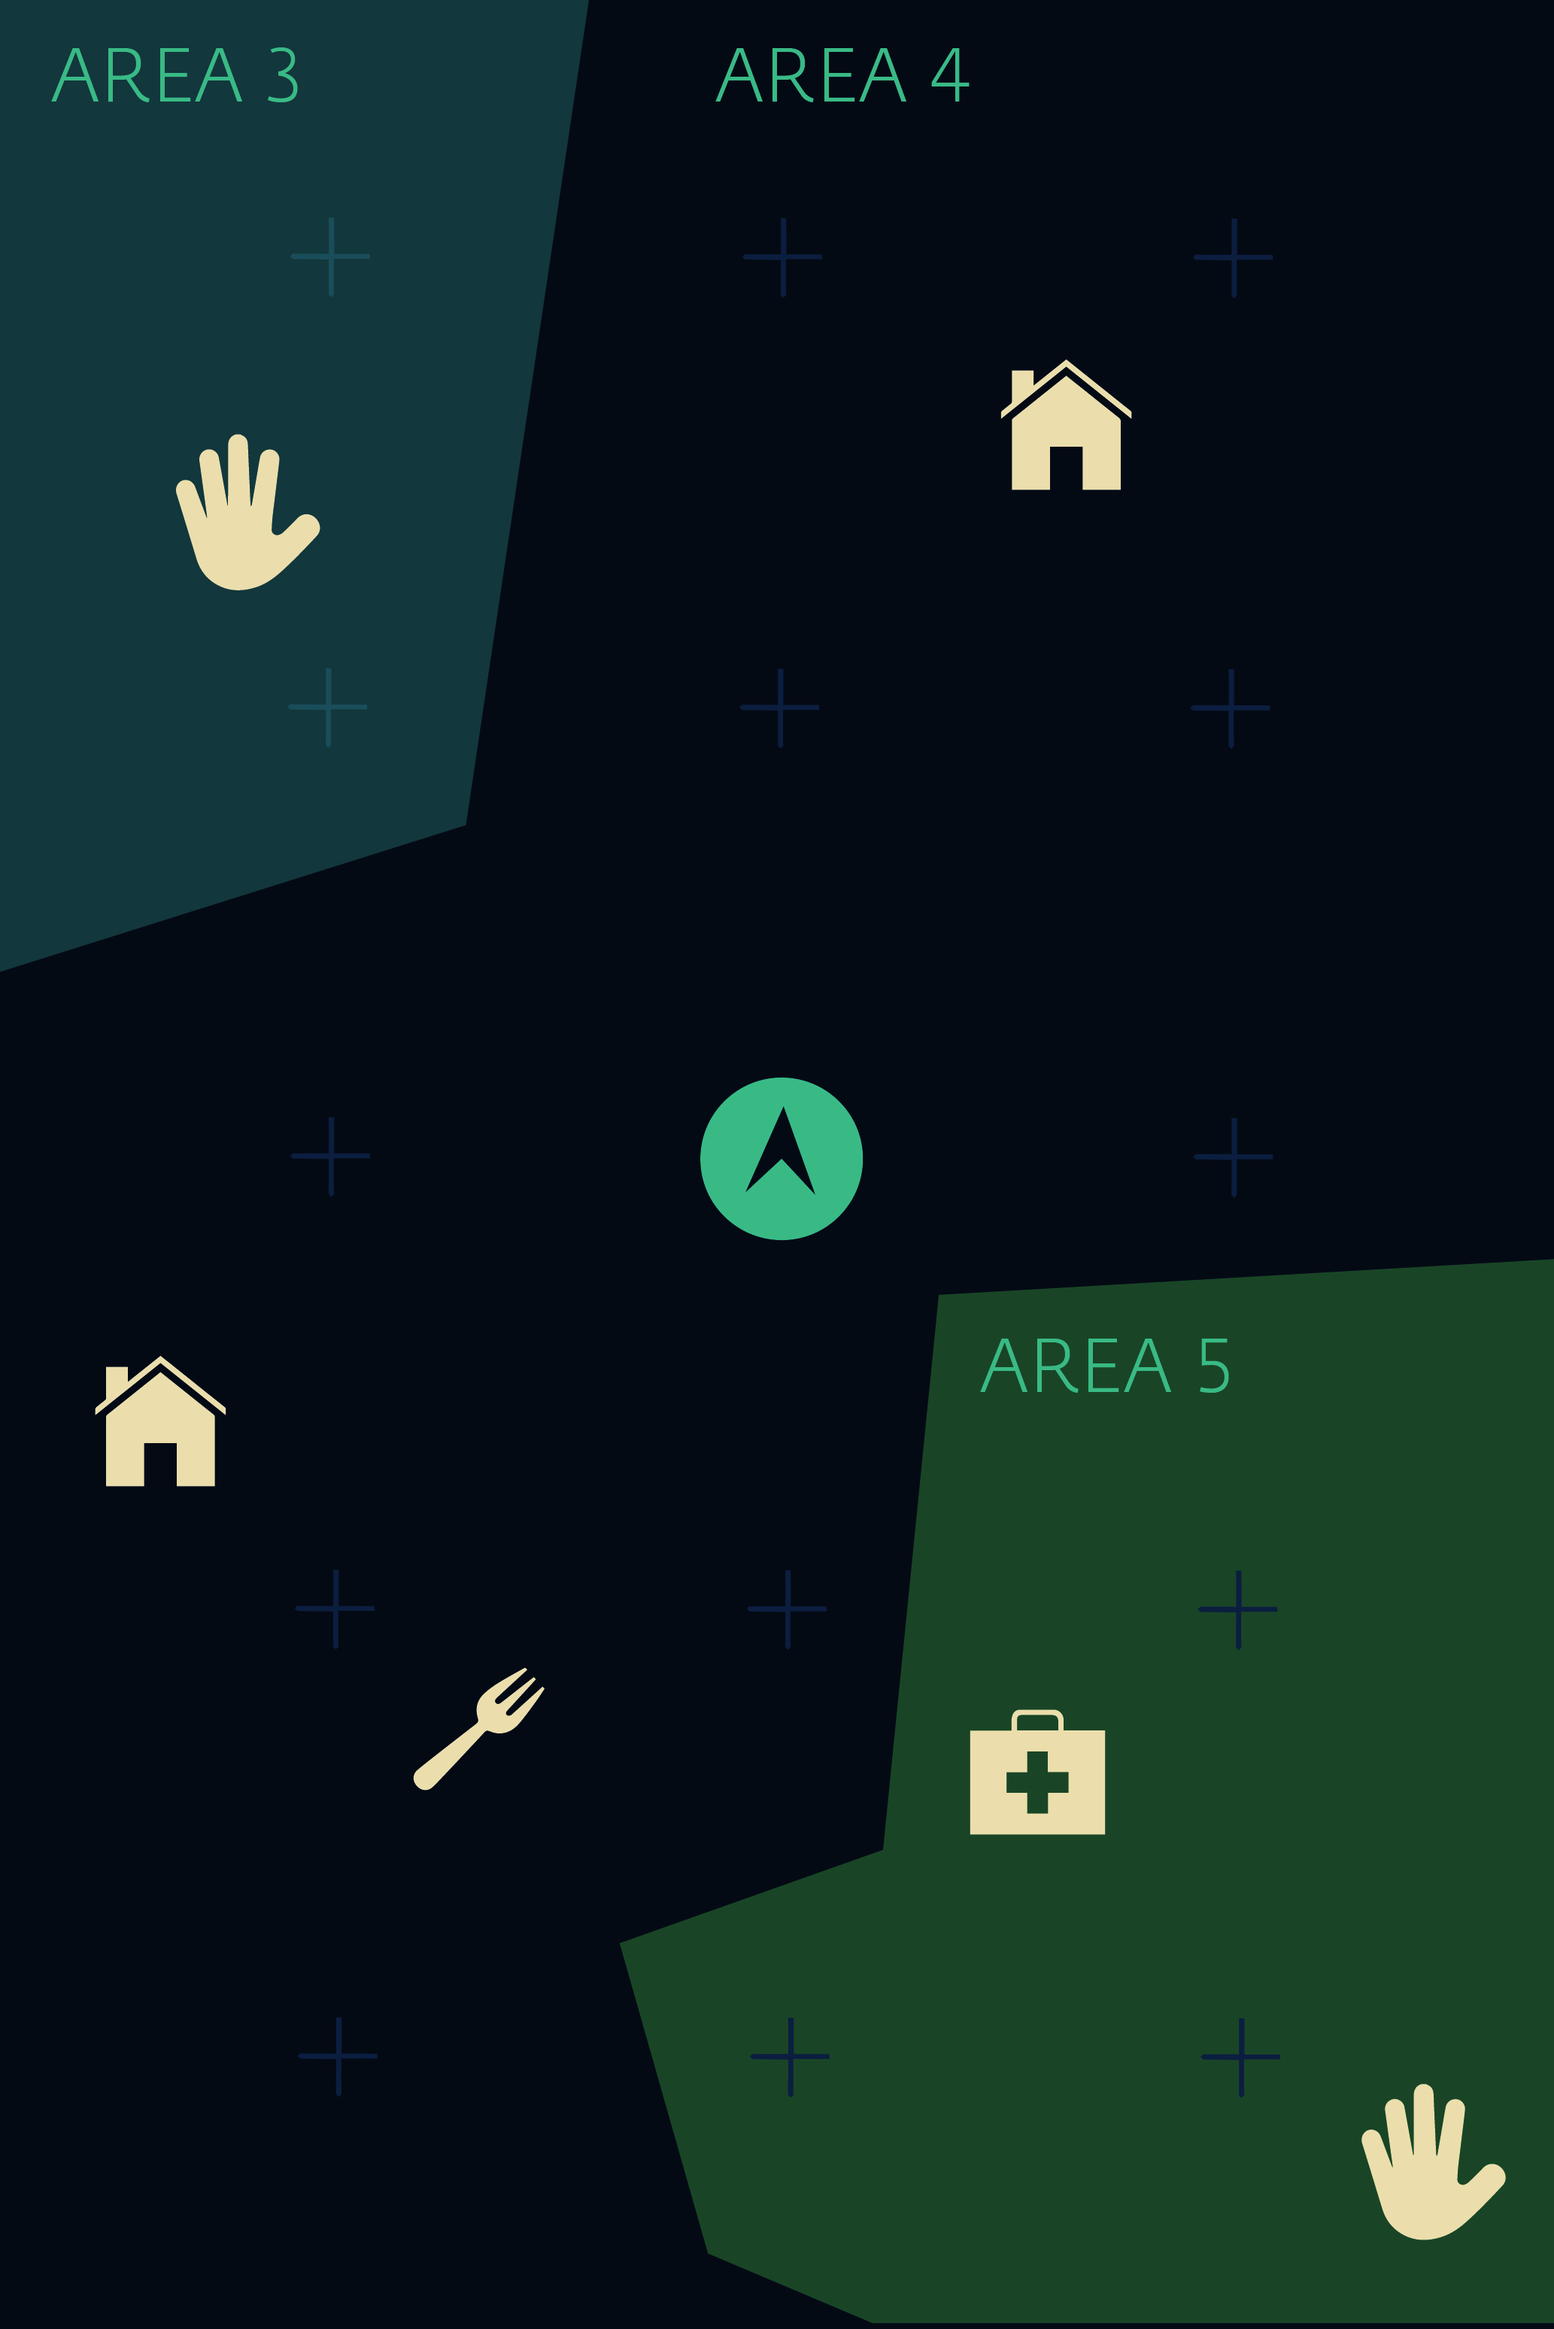
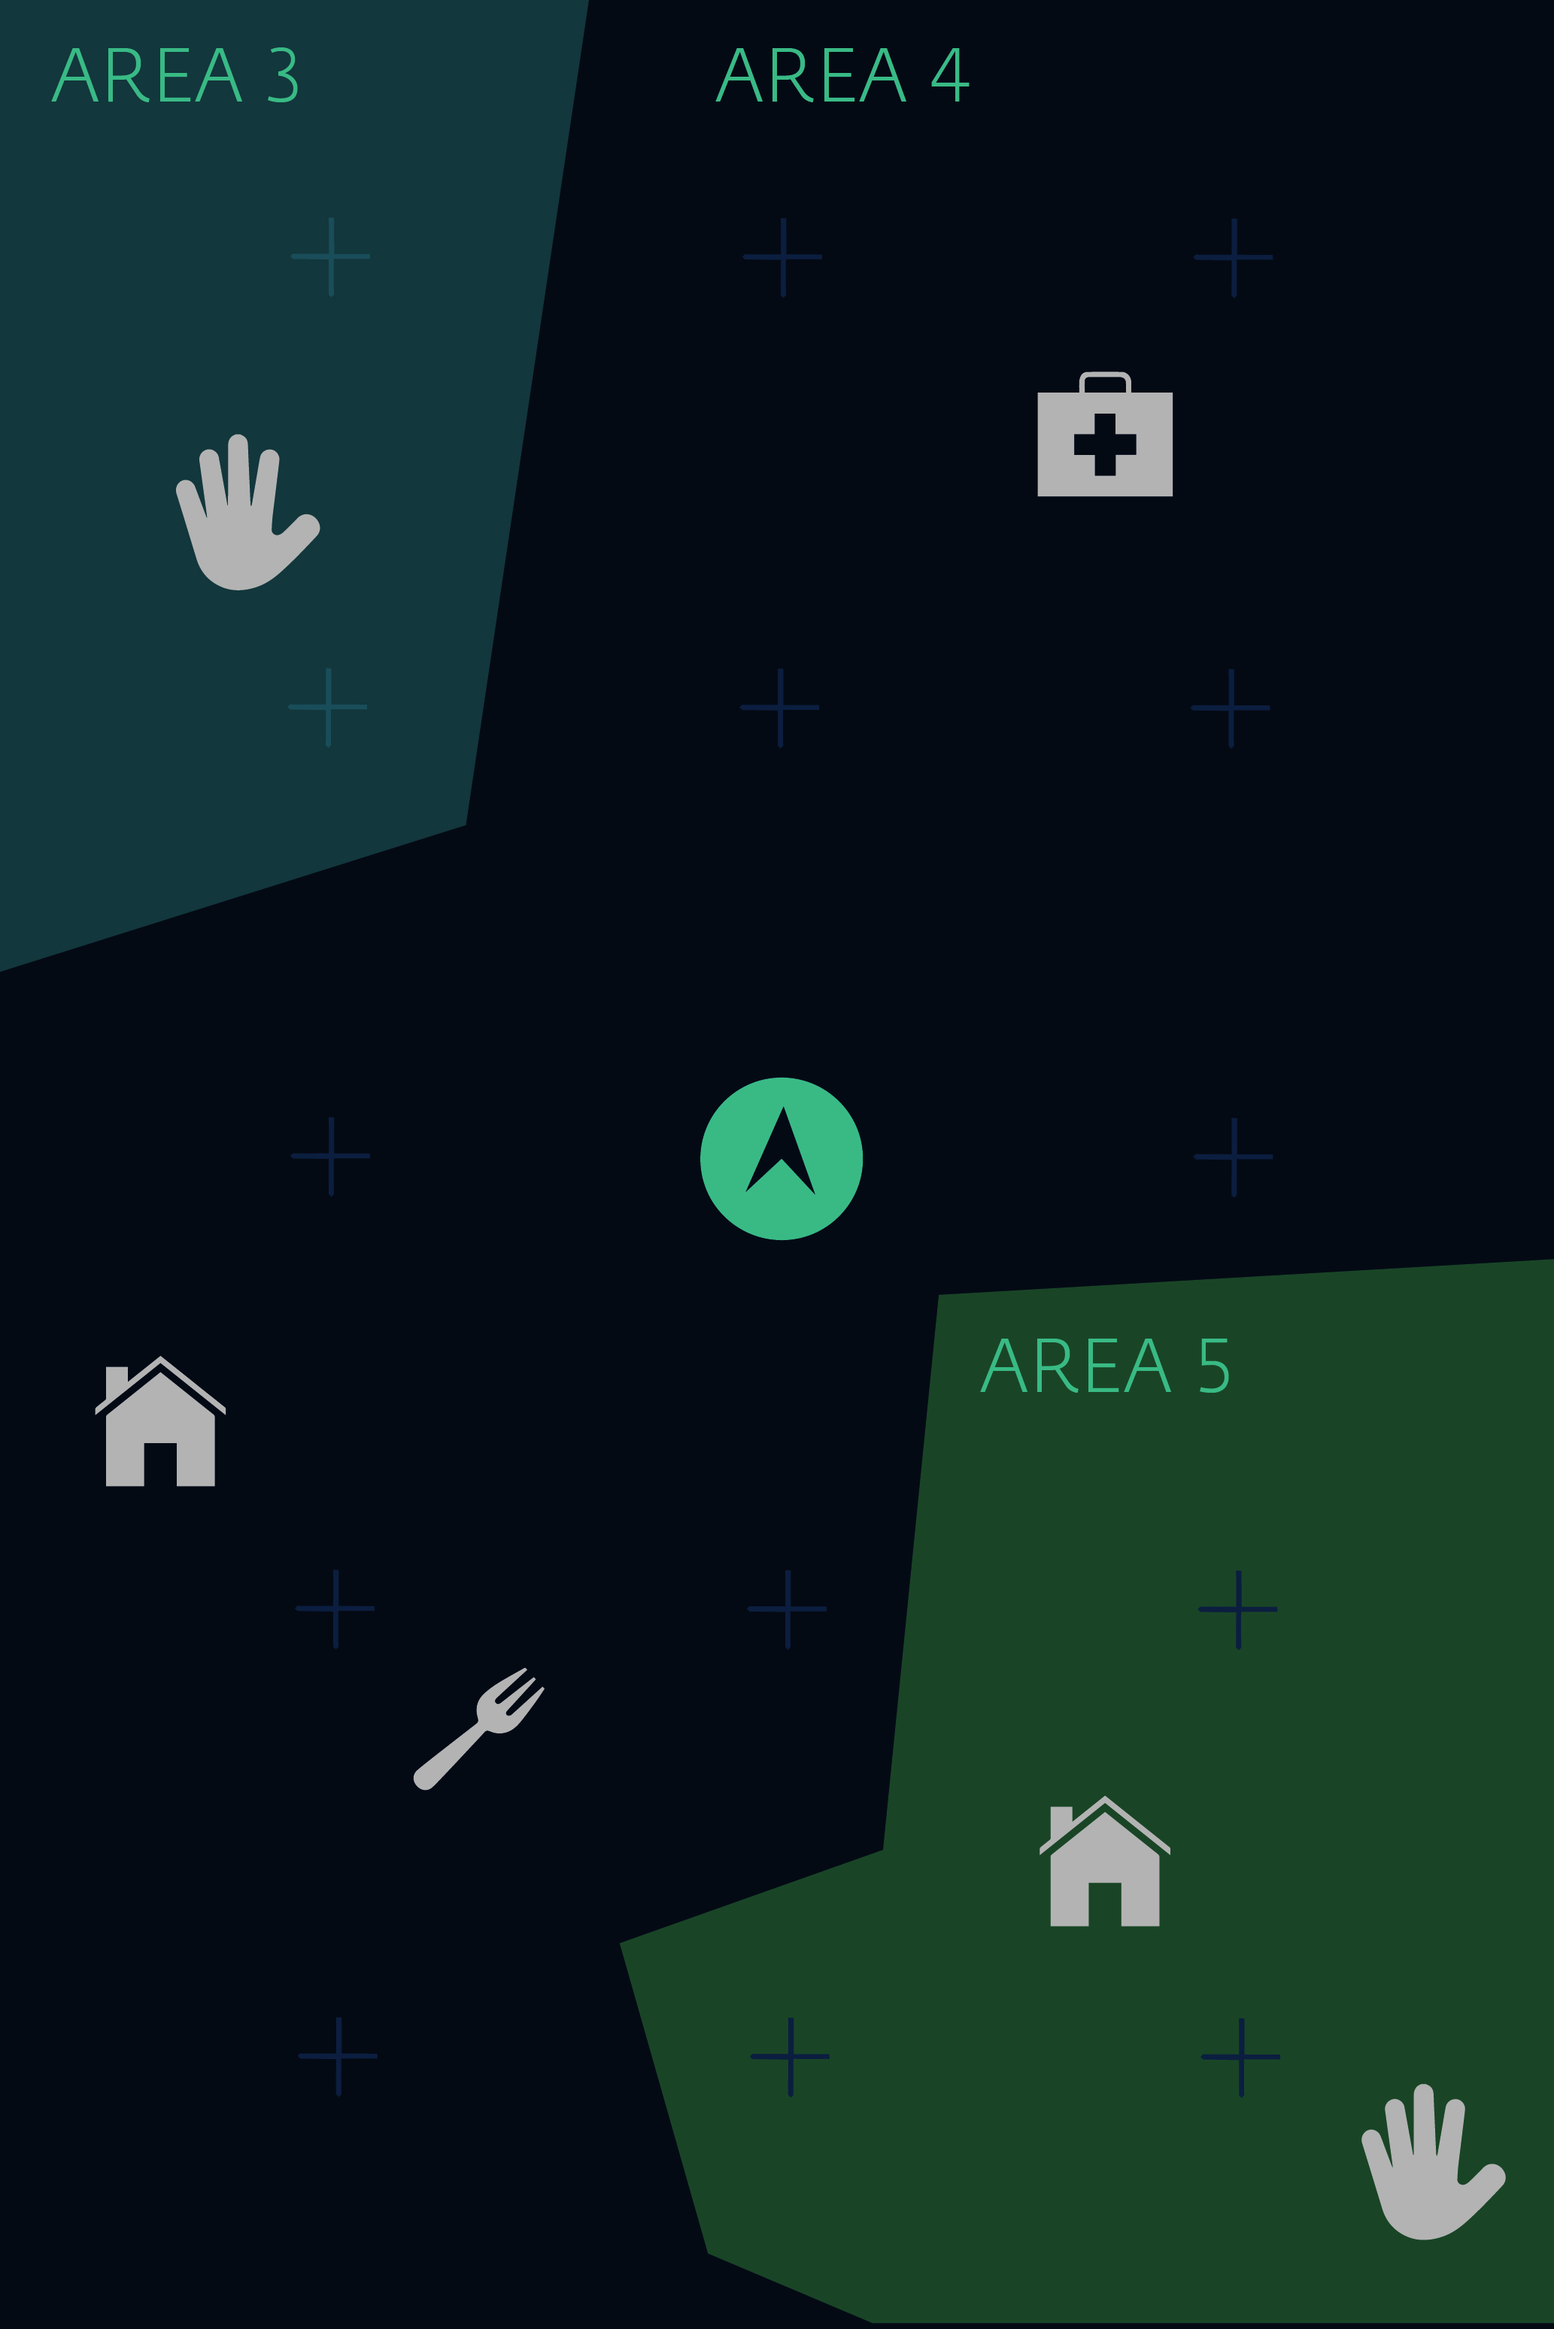
Map selected on click

diff --git a/src/locus-app/src/pages/map/map.ts b/src/locus-app/src/pages/map/map.ts
@@ -15,11 +15,22 @@ import { IonicPage, NavController, NavParams } from 'ionic-angular';
 })
 export class MapPage {
 
+  public isBackgroundSelected = true;
+  public isMapSelected = false;
+
   constructor(public navCtrl: NavController, public navParams: NavParams) {
   }
 
   ionViewDidLoad() {
     console.log('ionViewDidLoad MapPage');
+  }
+
+  changeToSelected() {
+    console.log("hello");
+    this.isBackgroundSelected = false;
+    this.isMapSelected = true;
+    // this.navCtrl.parent.select(2);
+
   }
 
 }

diff --git a/src/locus-app/src/pages/map/map.html b/src/locus-app/src/pages/map/map.html
@@ -1,2 +1,4 @@
-<ion-content padding class="background-map">
+<ion-content padding [ngClass]="{'background-map': isBackgroundSelected, 'map-selected': isMapSelected}">
+
+<div style="z-index: 1000; width: 100%; height: 100%;" on-tap="changeToSelected()"></div>
 </ion-content>

diff --git a/src/locus-app/src/app/app.scss b/src/locus-app/src/app/app.scss
@@ -28,3 +28,8 @@
   background: url("../../assets/img/details.jpg") no-repeat center center;
   background-size: cover;
 }
+
+.map-selected {
+  background: url("../assets/img/map-selected.jpg") no-repeat center center;
+  background-size: cover;
+}
